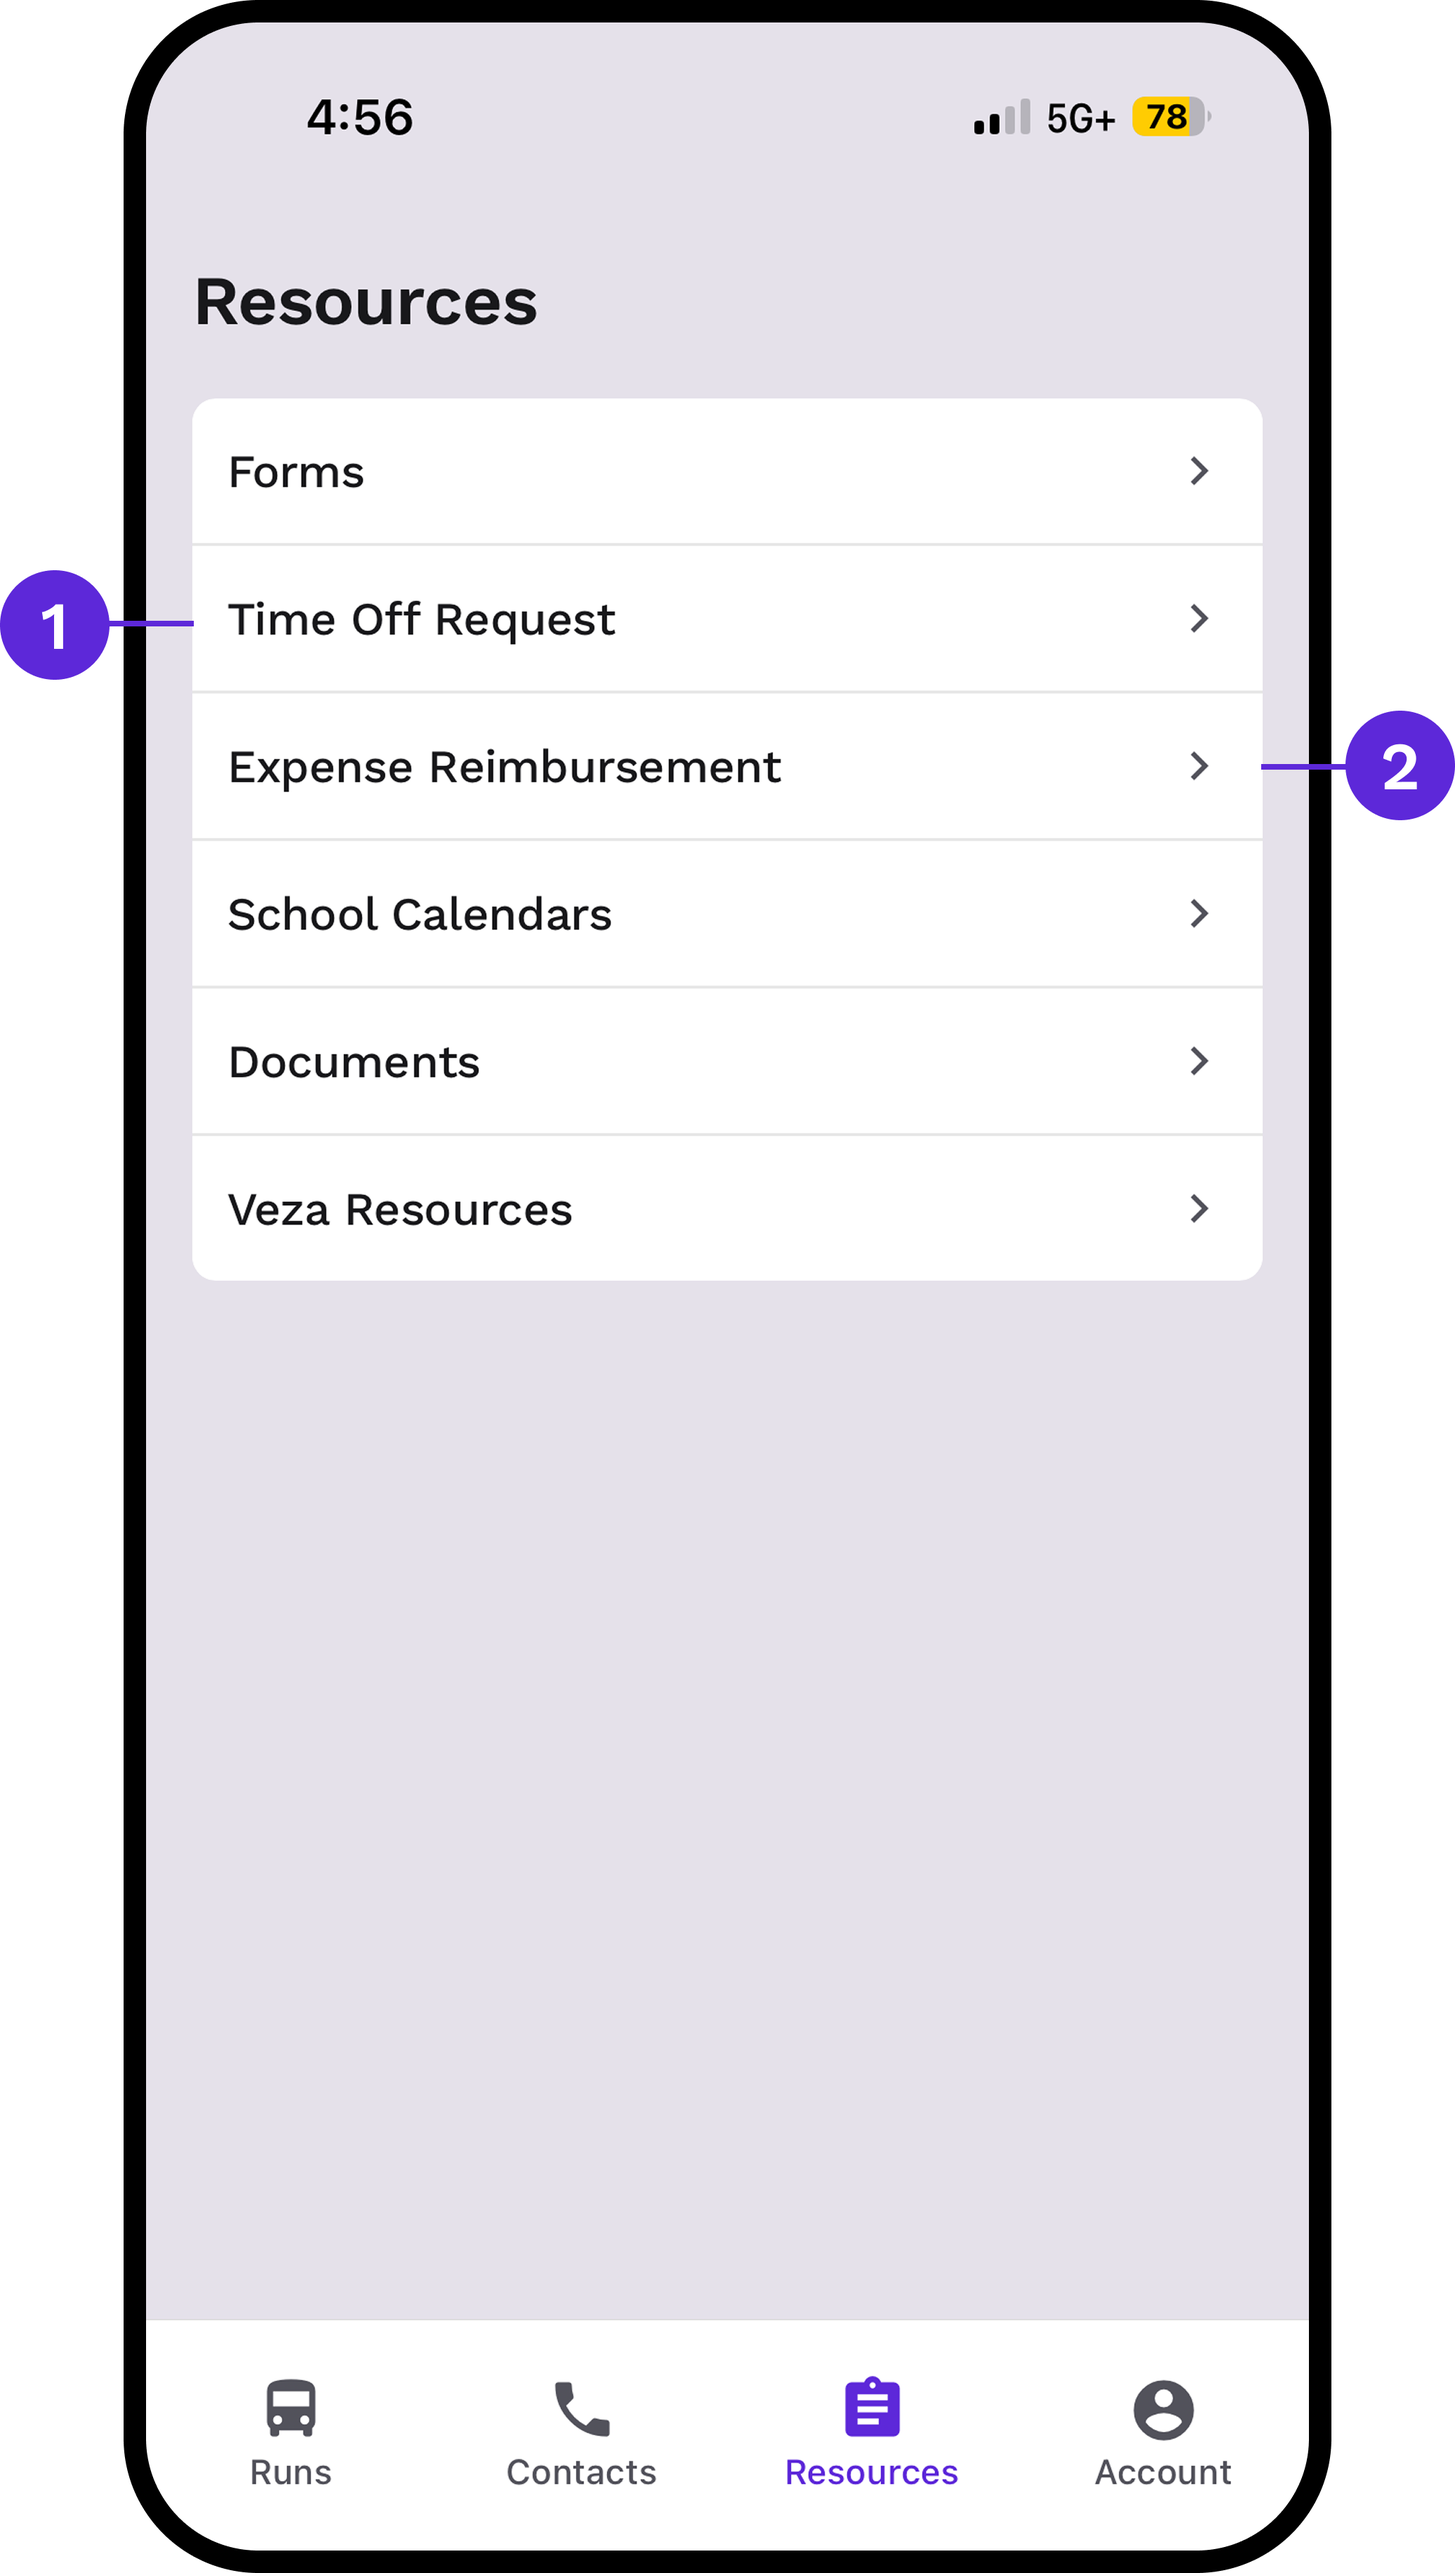
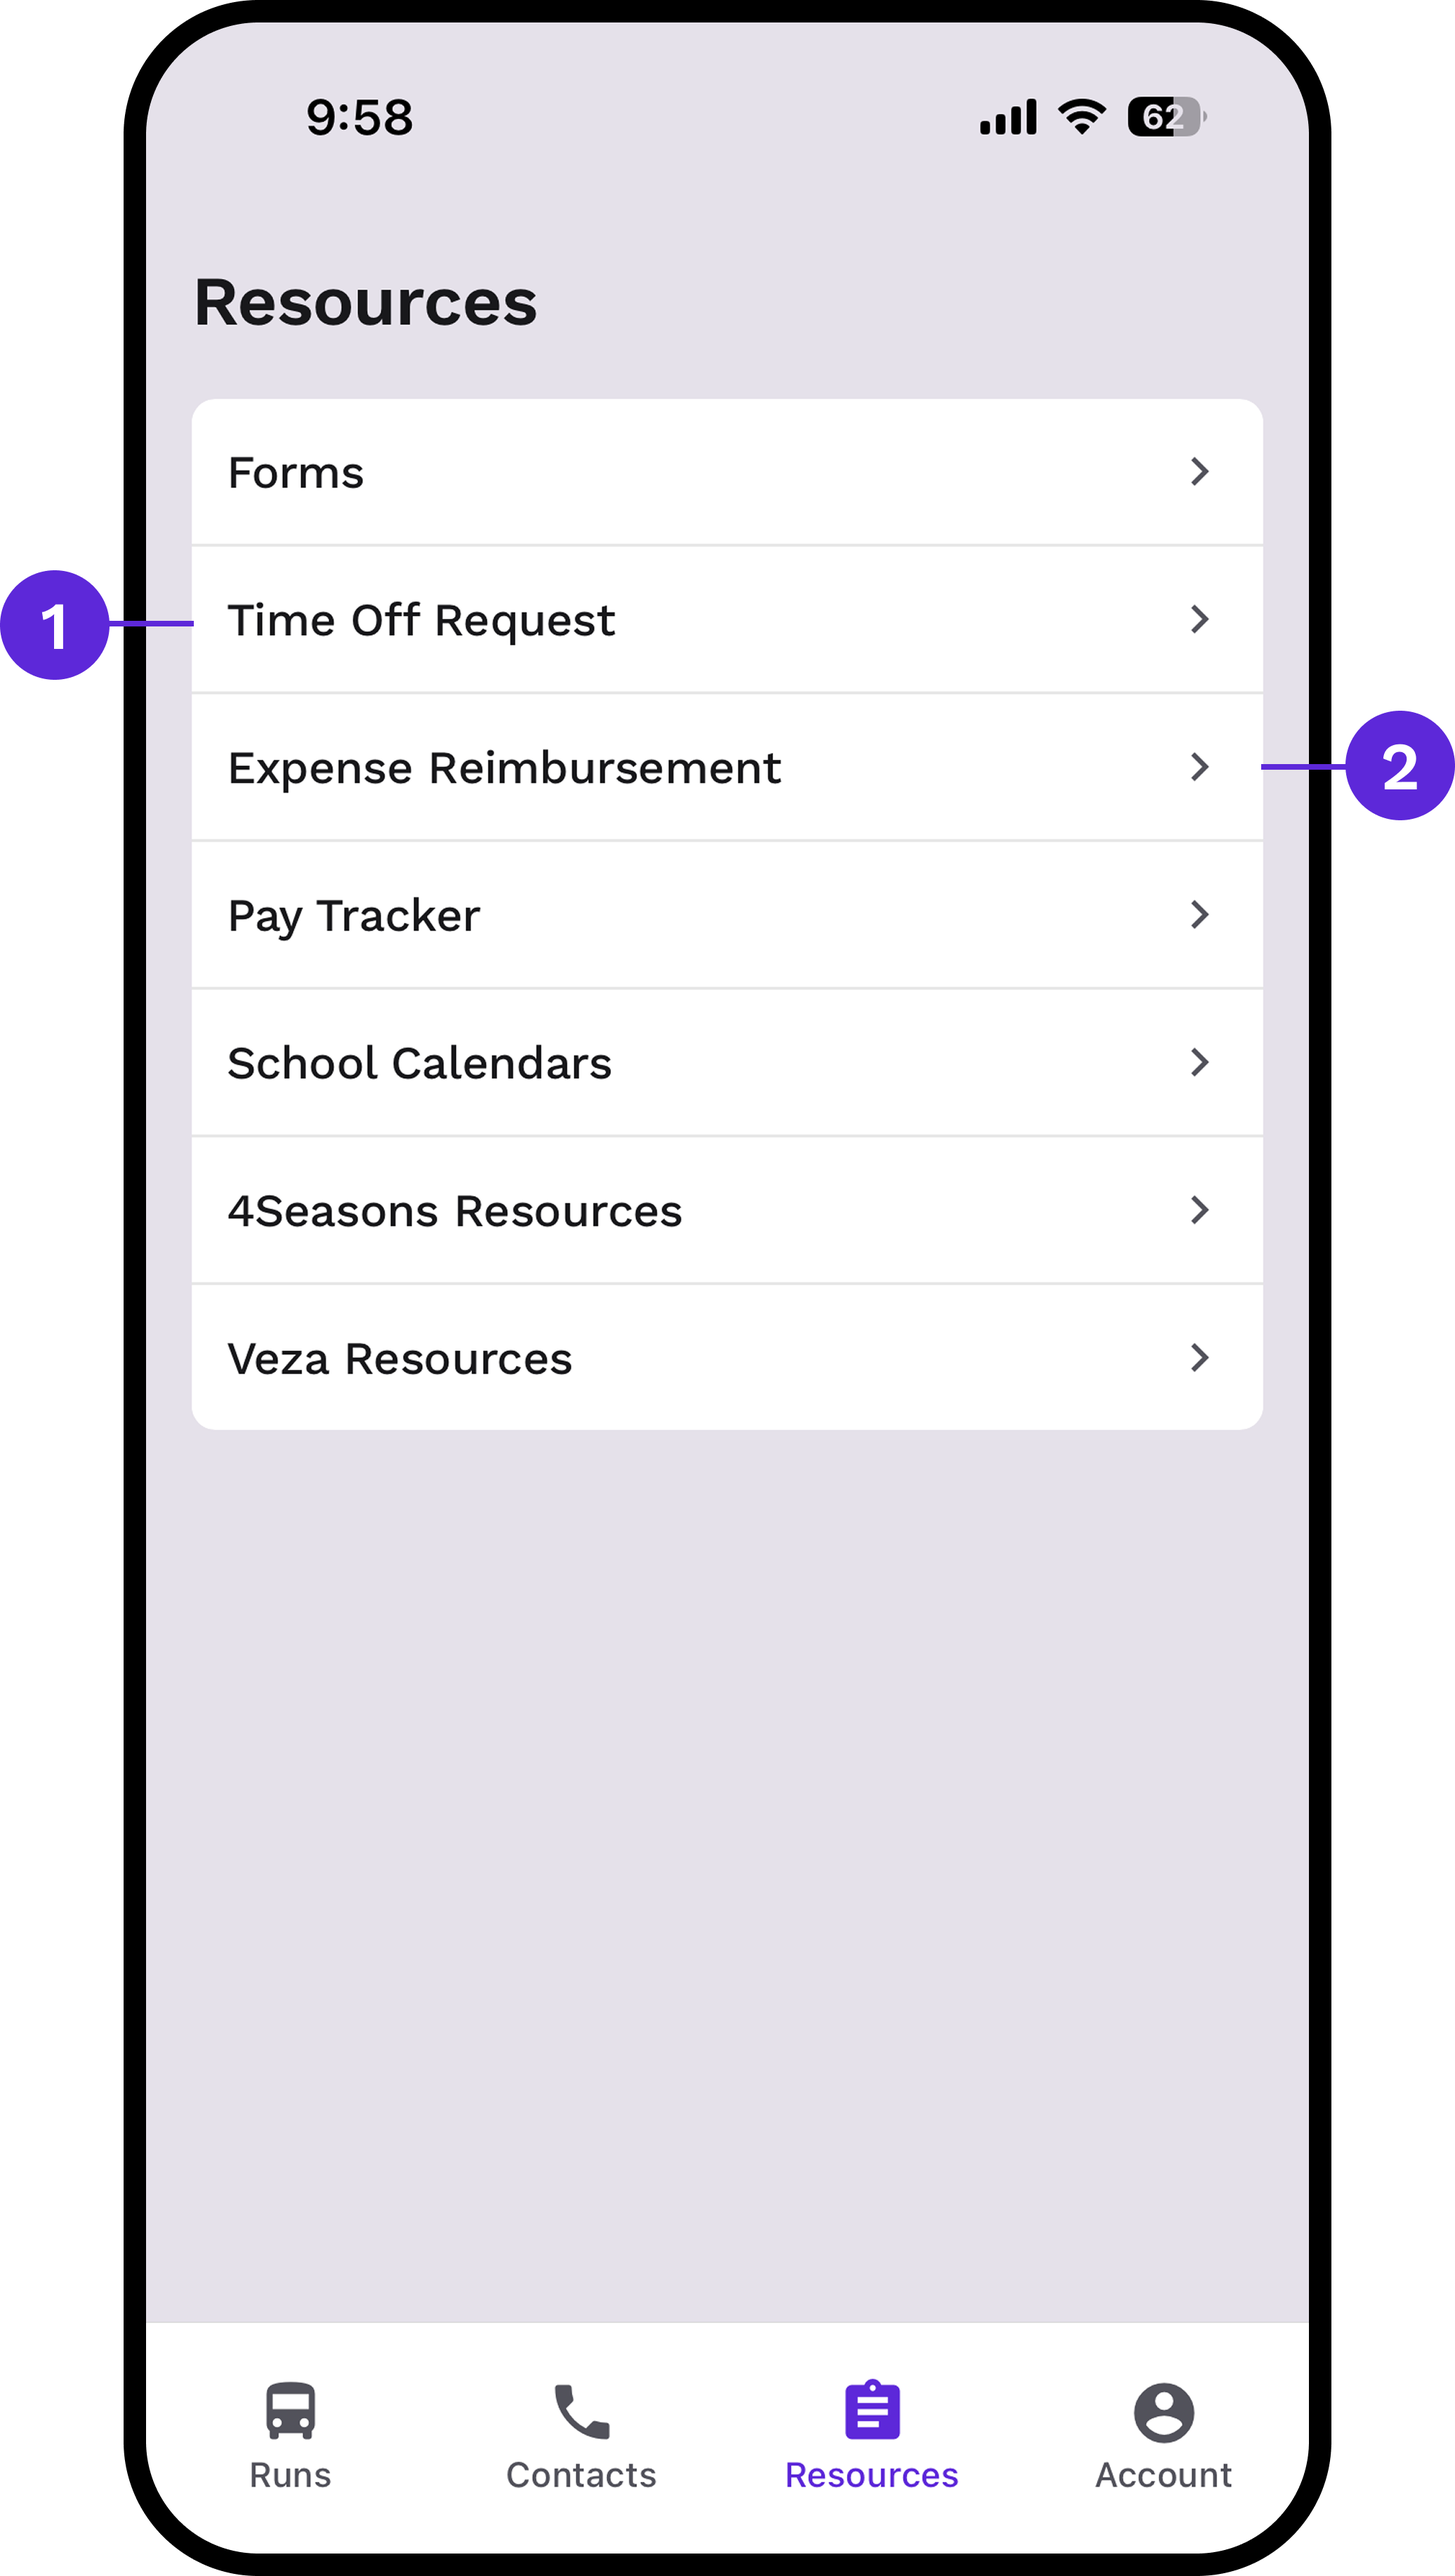
Add a Pay Tracker guide, and refresh the Resources screenshots
The Resources tab has gained a Pay Tracker row, and the row that used to read
Documents now carries the organization's own name. New screenshot, and the
legend follows it: Pay Tracker added, School Calendars and Veza Resources
renumbered, and the organization row described generically since the label
differs per organization.

Pay Tracker gets its own guide rather than an explanation inside the Resources
page. Every other substantial row already works that way — Forms and the two
expense rows each link out — and a guide for reading what you earned does not
belong inside an index of the tab. The Resources legend links to it.

It covers where to find it and how to read the screen. The date pickers select
any range, not a fixed pay period, so the copy says so; a pay period is only
one of the ranges you might pick.

Also refreshes the entry screenshot on the expenses guide, which still showed
the six-row list from before Pay Tracker existed, and capitalises Time in that
guide's title.

diff --git a/src/data/mobile-articles.js b/src/data/mobile-articles.js
@@ -59,8 +59,13 @@ export const articles = [
   },
   {
     href: "/support/mobile/expenses-time-off/",
-    title: "Expenses & time off",
+    title: "Expenses & Time off",
     blurb: "Request time off and submit expenses for reimbursement.",
+  },
+  {
+    href: "/support/mobile/pay-tracker/",
+    title: "Pay Tracker",
+    blurb: "See what you earned over any range of dates — run pay, holiday pay and approved expenses.",
   },
   {
     href: "/support/mobile/account/",
